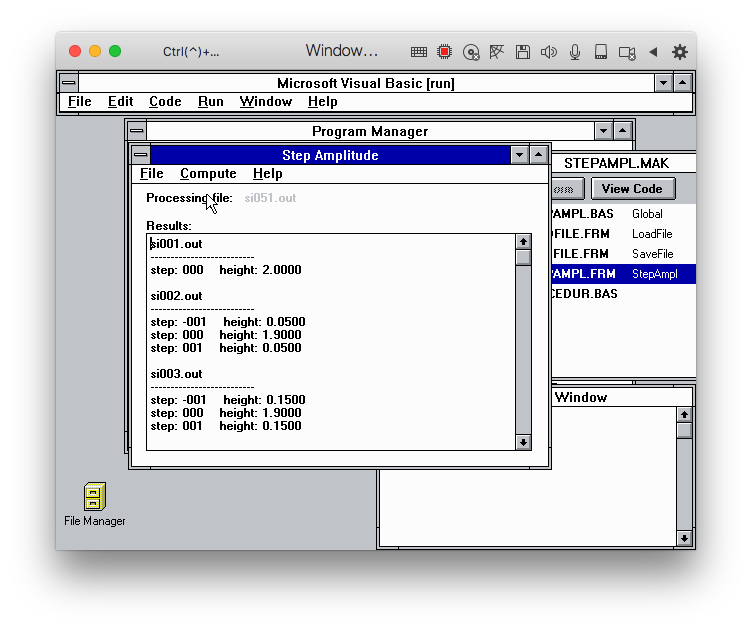
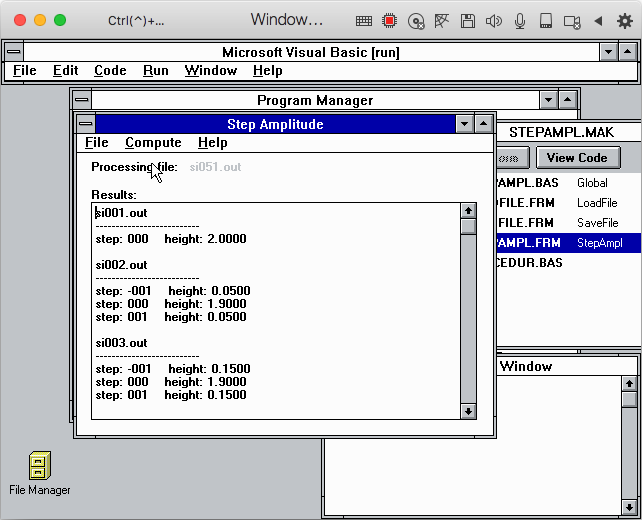
Minor corrections to text amd figures

diff --git a/content.tex b/content.tex
@@ -24,7 +24,7 @@ Besides its practical applications, the Josephson junction is important from a p
 
 %% The Josephson voltage standard at the $1$ and $10$~V levels that were the state-of-the-art implementation at the time and were deployed only in very few labs wordwide, required a very careful engineering of the microwave distribution lines within the many arms in which the Josephson arrays were divided. 
 
-An important research topic at the beginning of the '90s was related to finding ways to increase the amplitude of the current steps induced by the microwave radiation (rf-induced current steps). In fact, the stability of the lock between the phase of the junction and the applied microwave radiation -- and therefore its insensitivity to noise events which might switch the junction from one quantized voltage to another, a crucial problem for voltage standard applications -- is strongly dependent on the amplitude of the steps \cite{Kautz:1987}.
+An important research topic at the beginning of the '90s was related to finding ways to increase the amplitude of the current steps induced by the microwave radiation (rf-induced steps). In fact, the stability of the lock between the phase of the junction and the applied microwave radiation -- and therefore its insensitivity to noise events which might switch the junction from one quantized voltage to another, a crucial problem for voltage standard applications -- is strongly dependent on the amplitude of the steps \cite{Kautz:1987}.
 
 To increase the amplitude of the current steps, a non-sinusoidal microwave radiation may be used.
 %when two phased microwaves of frequencies $f$ and $2 f$ are added together, the rf-induced current steps can have normalized amplitudes larger than those predicted for a standard sinusoidal radiation 
@@ -328,10 +328,10 @@ Modern Fortran compilers do not support this  non-standard edit descriptor and r
 Microsoft Fortran 5.1 had two separate intrinsic subroutines to return the current date and time.
 In particular, \texttt{CALL GETDAT(iyr, imon, iday)}, saved the date in the two-byte integer variables \texttt{iyr}, \texttt{imon} and \texttt{iday}, while \texttt{CALL GETTIM(ihr, imin, imin, i100th)} did the same for the current time, saving the return values in the integer variables \texttt{ihr}, \texttt{imin}, \texttt{imin} and \texttt{i100th}. The meaning of each returned variable should be self-explanatory.
 
-Modern Fortran supports the single subroutine \texttt{CALL DATE_AND_TIME(DATE, TIME, ZONE, VALUES)}, where all arguments are optional and can be specified by their dummy names (i.e., how Fortran calls the keyword arguments of a function call). 
+Modern Fortran supports the single subroutine \texttt{CALL DATE\_AND\_TIME(DATE, TIME, ZONE, VALUES)}, where all arguments are optional and can be specified by their dummy names (i.e., how Fortran calls the keyword arguments of a function call). 
 In particular, \texttt{DATE}, \texttt{TIME} and \texttt{ZONE} are character variables, while \texttt{VALUES} is a one-dimensional array of 8 integers, where \texttt{VALUES(1:3)} corresponds to the year, month and day of the month, \texttt{VALUES(4)} is the time difference (in minutes) with UTC, and \texttt{VALUES(5:8)} are the hour, minute, second and milliseconds, respectively.
 
-To minimize changes to the original source code, the calls to the \texttt{GETDAT} and \texttt{GETTIM} subroutines, were translated to a single call to \texttt{DATE_AND_TIME}, assigning the elements of the returned array of \texttt{VALUES} to integer variables named as in the original code (Fig.~\ref{fig:date-time}).
+To minimize changes to the original source code, the calls to the \texttt{GETDAT} and \texttt{GETTIM} subroutines, were translated to a single call to \texttt{DATE\_AND\_TIME}, assigning the elements of the returned array of \texttt{VALUES} to integer variables named as in the original code (Fig.~\ref{fig:date-time}).
 
 
 %%===============================================================================
@@ -375,7 +375,7 @@ As noted above, \texttt{mcp-work.for} calculates the $I - V$ characteristics of 
 
 %===============================================================================
 \lstset{
-    language = Fortran,
+    language = [77]Fortran,
     tabsize = 6,
     frame = none,
     framesep = 2em,
@@ -383,7 +383,7 @@ As noted above, \texttt{mcp-work.for} calculates the $I - V$ characteristics of 
     backgroundcolor = \color{ultralightgray},
 	keywordstyle = \color{darkred}\bfseries,
 	morekeywords = {},
-	deletekeywords = {file name}
+	deletekeywords = {FILE, NAME}
 }
 %===============================================================================
 \begin{lstlisting}
@@ -819,6 +819,7 @@ However this is not only a nostalgic attitude. The reproducibility crisis is a s
 Being able to go back and reproduce what has been done in the past could ease the retraction of published papers containing fabricated, falsified, or modified data or results and could contribute to simplify the identification of future frauds.
 
 This of course requires to share and make freely available the original data and the tools used to analyze them. A few years ago this requirement was impossible to fulfill in practice. The digital world in which we live makes it almost inevitable.
+
 
 
 

diff --git a/supplementary.tex b/supplementary.tex
@@ -8,16 +8,16 @@
 %===============================================================================
 \begin{figure}[h]
     \centering
-    \includegraphics[width = 0.75 \textwidth]{meld-comparison.png}
+    \includegraphics[width = \textwidth]{meld-comparison.png}
     \caption{Comparison with Meld of the main calculation loop of (left) \textsf{mcphase.for} and (right) \textsf{mcp-work.for}.}
     \label{fig:meld-comparison}
 \end{figure}
 %===============================================================================
 
 %===============================================================================
-\begin{figure}[h]
+\begin{figure}[t]
     \centering
-    \includegraphics[width = 0.75 \textwidth]{batch-file.png}
+    \includegraphics[width = \textwidth]{batch-file.png}
     \caption{DOS batch file used by \textsf{mcphase.for} to run multiple simulations with different values of the amplitude of the microwave signal $\alpha_\mathrm{rf}$.}
     \label{fig:batch-file}
 \end{figure}
@@ -31,21 +31,22 @@
 %===============================================================================
 \lstset{
     language = C,
-    basicstyle = \tiny\bfseries\ttfamily,
+    basicstyle = \bfseries\ttfamily,
     tabsize = 4,
     frame = lines,
     framesep = 1em,
     framexleftmargin = 1em,
     backgroundcolor = \color{ultralightgray},
     keywordstyle = \color{darkred}\bfseries,
-    morekeywords = {$DEFINE, $if, $endif, defined},
+    morekeywords = {DEFINE, defined, if, endif},
+    alsoother = {$, \#},
     deletekeywords = {for}
 }
 %===============================================================================
-\begin{figure}[h]
+\begin{figure}[t]
 \centering
 
-\begin{minipage}{0.6\textwidth}
+\begin{minipage}{\textwidth}
 \textbf{(a)}
 \begin{lstlisting}
       $DEFINE textout			! DEFINEd for text output
@@ -76,7 +77,7 @@
 %
 \hfill
 %
-\begin{minipage}{0.6\textwidth}
+\begin{minipage}{\textwidth}
 \textbf{(b)}
 \begin{lstlisting}
       CC $DEFINE textout		! DEFINEd for text output
@@ -118,7 +119,7 @@
 %===============================================================================
 \lstset{
     language = Fortran,
-    basicstyle = \tiny\bfseries\ttfamily,
+    basicstyle = \bfseries\ttfamily,
     tabsize = 6,
     frame = lines,
     framesep = 2em,
@@ -129,10 +130,10 @@
     deletekeywords = {}
 }
 %===============================================================================
-\begin{figure}[h]
+\begin{figure}[t]
 \centering
 
-\begin{minipage}{0.6\textwidth}
+\begin{minipage}{\textwidth}
 \textbf{(a)}
 
 \begin{lstlisting}
@@ -150,7 +151,7 @@
 %
 \hfill
 %
-\begin{minipage}{0.6\textwidth}
+\begin{minipage}{\textwidth}
 \textbf{(b)}
 \begin{lstlisting}
       ...
@@ -183,9 +184,9 @@
 %\subsection{Running the programs}
 
 %===============================================================================
-\begin{figure}[tbh]
+\begin{figure}[t]
 	\centering
-	\includegraphics[width = 0.75 \textwidth]{stepampl.png}
+	\includegraphics[width = \textwidth]{stepampl.png}
 	\caption{Windows 3.11 desktop with the running Visual Basic program \textsf{stepampl}.}
 	\label{fig:stepampl}
 \end{figure}
